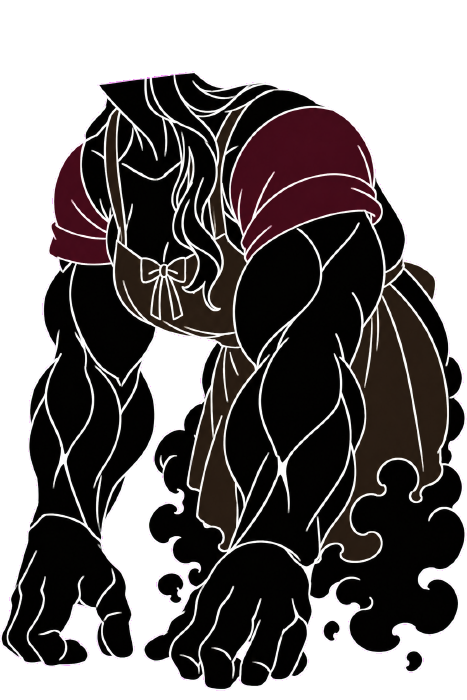
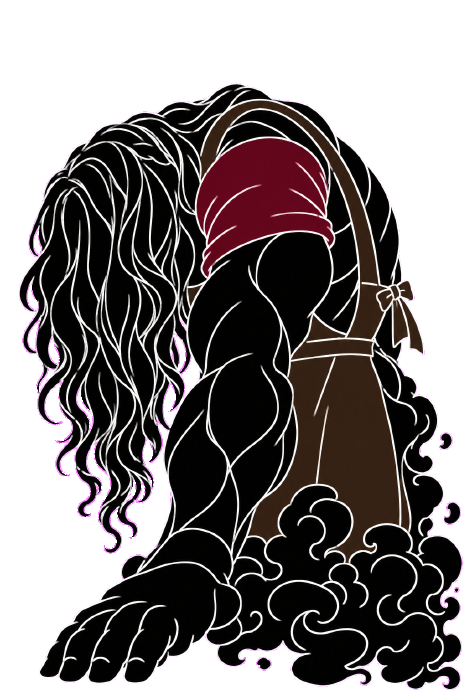
feat(castle): 청소년 battle polish — higher placement without overlay artifacts, defend next to fight and preselected, defend pose from selection, centered vacuum with rising debris and difficulty ramp, healing 1UP mushrooms, gajaeman fades in to harass with taunts, head-down collapse, rise lines

diff --git a/src/battle/support/teen-boss.js b/src/battle/support/teen-boss.js
@@ -19,7 +19,7 @@ export function createTeenBossSupport(battle) {
   // 가재맨: 어깨 위(perch) → 쓰러지면 천천히 내려와 쓰러진 몸 뒤에서 맴돈다(hover) → 일어나면 다시 어깨로
   let gj = { mode: 'hidden', t: 0, from: [...V.shoulder] };
   // 쓰러짐(collapse)·일어남(rise) 연출 시간
-  let fall = null, vacTurns = 0, motes = [], crits = [], puffs = [];
+  let fall = null, downs = 0, vacTurns = 0, motes = [], crits = [], puffs = [];
   const live = () => !enemy.dead && enemy.hp > 0 && !(enemy.dying > 0);
   // 필드에서 이어진 연기(같은 장면이면 그대로 이어 받는다)
   const smoke = battle.game.castleSummit?.smoke || new SummitSmoke();
@@ -37,7 +37,7 @@ export function createTeenBossSupport(battle) {
     get phase() { return phase; },
     get gauge() { return gauge; },
     get smoke() { return smoke; },
-    get snapshot() { return { phase, gauge: Math.round(gauge), downLeft, defending: defenders.size > 0, defenders: [...defenders], turn, fall: fall?.kind || null, gaugeAlpha: +gaugeA.toFixed(2), gajaeman: gj.mode }; },
+    get snapshot() { return { phase, gauge: Math.round(gauge), downLeft, downs, defending: defenders.size > 0, defenders: [...defenders], turn, fall: fall?.kind || null, gaugeAlpha: +gaugeA.toFixed(2), gajaeman: gj.mode }; },
     async load(loadImage) {
       const ids = battle.members.map(m => m.id);
       const imgs = await Promise.all(ids.map(id => loadImage(C.images.defend(id)).catch(() => null)));
@@ -49,15 +49,18 @@ export function createTeenBossSupport(battle) {
       for (let i = 0; i < 2; i++) { const src = `assets/props/summit336_chunk_${i}.png`; if (!props[src]) props[src] = await loadImage(src).catch(() => null); }
       const debris = await Promise.all(TEEN_DEBRIS.map(src => loadImage(src).catch(() => null)));
       globalThis.__teenImages = Object.fromEntries(TEEN_DEBRIS.map((src, i) => [src, debris[i]]));
-      await battle.game.sound.loadSfxFiles?.(['gajaeman_knee', 'gajaeman_kick', 'knight_cut', 'spearappear', 'heavyswing', 'furnace_blast', 'baron_slam', 'impact', 'power', 'laser_charge', 'weaponpull', 'thud', 'rumble', 'teen_vacuum', 'baron_roar', C.downHit.sfx, 'criticalswing']);
+      await battle.game.sound.loadSfxFiles?.(['gajaeman_knee', 'gajaeman_kick', 'knight_cut', 'spearappear', 'heavyswing', 'furnace_blast', 'baron_slam', 'impact', 'power', 'laser_charge', 'weaponpull', 'thud', 'rumble', 'teen_vacuum', 'baron_roar', C.downHit.sfx, 'criticalswing', 'heal', 'mario_jump']);
     },
-    reset() { phase = 'guard'; gauge = 0; turn = 0; downLeft = 0; gjIdx = 0; defenders.clear(); gj = { mode: 'hidden', t: 0, from: [...V.shoulder] }; fall = null; clearTeenTimers(); enemy.patternPose = null; },
+    reset() { downs = 0; phase = 'guard'; gauge = 0; turn = 0; downLeft = 0; gjIdx = 0; defenders.clear(); gj = { mode: 'hidden', t: 0, from: [...V.shoulder] }; fall = null; clearTeenTimers(); enemy.patternPose = null; },
     buttons() {
+      // 공격하기 바로 옆에 방어하기(사용자), 공격하기가 잠겨 있으면 커서는 방어하기에서 시작(defaultMenuIdx)
       return [
         { label: C.labels.fight, kind: 'fight', enabled: phase === 'down' },
-        { label: C.labels.item, kind: 'item', enabled: true },
         { label: C.labels.defend, kind: 'support', id: 'defend', enabled: true },
+        { label: C.labels.item, kind: 'item', enabled: true },
       ];
+    },
+    defaultMenuIdx() { return phase === 'down' ? 0 : 1;
     },
     get hint() { return ''; },
     onVacuum(on, seconds) { vac = on ? { t: 0, d: seconds } : null; },
@@ -70,7 +73,7 @@ export function createTeenBossSupport(battle) {
     // 상자는 끝길 일행 오른쪽(겹치지 않게). 청소기는 손바닥 구멍(205,136) 오른쪽 아래로 넓게(사용자 “더 넓혀”)
     // 청소기는 손바닥 구멍(view.vacuum.palm)이 상자 왼쪽 위 대각선, 게이지 패널(x 440)과 겹치지 않게
     // 피하는 상자는 너무 오른쪽이지 않게(사용자) — 일행(x≤145) 바로 오른쪽
-    get boardCenter() { return this.vacuumTurn() ? [300, 236] : [300, 214]; },
+    get boardCenter() { return this.vacuumTurn() ? [300, 194] : [300, 214]; },
     boardSizeFor() { return this.vacuumTurn() ? [180, 130] : [220, 140]; },
     action(id) {
       if (id !== 'defend') return null;
@@ -86,7 +89,7 @@ export function createTeenBossSupport(battle) {
     speechFor() { return phase === 'down' ? [C.gajaemanLines[C.gajaemanPatterns[gjIdx % C.gajaemanPatterns.length]]] : ['...']; },
     speechVoiceFor() { return phase === 'down' ? 'gajaeman_shadow' : null; },
     /** 말풍선 꼬리: 쓰러진 동안엔 떠 있는 가재맨 옆, 평소엔 청소년 머리 왼쪽 */
-    bubbleAnchor() { if (phase !== 'down') return [236, 60]; const [x, y] = gjPos(); return [x - 30, y - 70]; },
+    bubbleAnchor() { if (phase !== 'down' && !this.gajaemanShown()) return [236, 60]; const [x, y] = gjPos(); return [x - 30, y - 70 * V.gajaemanScale]; },
     /** 방어하기: 이번 적 턴 피해 −3 */
     adjustPartyDamage(member) {
       const [lo, hi] = C.enemyHit, dmg = lo + Math.floor(battle.rnd() * (hi - lo + 1));
@@ -104,11 +107,16 @@ export function createTeenBossSupport(battle) {
       nextType = turn % C.slamEvery === 0 ? 'teen_slam' : 'teen_vacuum';
       // 세 번째 청소부터 가재맨이 중간중간 검·무릎으로 방해(사용자 2026-09-25)
       if (nextType === 'teen_vacuum') vacTurns++;
-      return [{ type: nextType, damage: 15, harass: nextType === 'teen_vacuum' && vacTurns >= 3 }];
+      return [{ type: nextType, damage: 15, harass: nextType === 'teen_vacuum' && vacTurns >= 3, level: Math.max(0, vacTurns - 1) }];
     },
     onProjectile(p) {
       // 방해하러 잠깐 튀어나온다 → 1.3초 뒤 다시 들어간다
-      if (p?.type === 'gj_pop' && phase === 'guard') flyTo('pop', 0.35);
+      if (p?.type === 'gj_pop' && phase === 'guard') flyTo('pop', 0.6);
+      // 1UP 버섯을 먹었다: 쓰러지지 않은 일행 전원 회복
+      if (p?.type === 'teen_heal') {
+        for (const m of battle.members) if (!m.down && m.hp > 0) { const before = m.hp; m.hp = Math.min(m.maxHp, m.hp + C.mushroom.heal); m.popup = { t: 0, text: `+${m.hp - before}`, heal: true }; }
+        battle.sfx('heal'); battle.sfx('mario_jump');
+      }
       if (p?.type === 'teen_dodge' && phase === 'guard') gauge = Math.min(C.gauge.max, gauge + C.gauge.perDodge);
       if (p?.type === 'teen_rock' && live()) { battle.hitEnemy(enemy, null, C.rockDamage, { source: 'teen_rock' }); battle.game.shake = { time: 0.4, amp: 5 }; }
     },
@@ -125,7 +133,8 @@ export function createTeenBossSupport(battle) {
     /** 쓰러진 청소년 앞(낮아진 몸)까지만 달려간다 */
     attackSpot(target) { return target === enemy && phase === 'down' ? C.downSpot : null; },
     memberImage(m) {
-      if (!defenders.has(m.id) || !['bullets', 'board-open', 'board-close', 'enemy-prep', 'prep'].includes(battle.state)) return null;
+      // 방어를 고른 순간부터 적 턴이 끝날 때까지(다른 멤버가 아이템을 쓰는 동안에도) 방어 자세
+      if (!defenders.has(m.id) || m.down || battle.state === 'win') return null;
       return defendImages[m.id] || null;
     },
     poseFor(target) {
@@ -138,7 +147,7 @@ export function createTeenBossSupport(battle) {
     update(dt) {
       if (vac) { vac.t += dt; if (vac.t > vac.d) vac = null; }
       time += dt; gj.t += dt;
-      if (gj.mode === 'pop' && gj.t > 1.3) flyTo('back', 0.4);
+      if (gj.mode === 'pop' && gj.t > 2.2) flyTo('back', 0.6);
       for (const c of crits) c.t += dt;
       crits = crits.filter(c => c.t < C.downHit.fx);
       // 가재맨 둘레로 보라·검은 오오라 입자가 피어오른다
@@ -159,7 +168,7 @@ export function createTeenBossSupport(battle) {
       if (!live()) return null;
       if (phase === 'guard' && gauge >= C.gauge.max) {
         // 과부하: 몇 초 동안 앞으로 기울며 무너져 끝길 쪽으로 엎어진다(애니처럼) → 정적 → 억빠맨
-        phase = 'down'; downLeft = C.downTurns; fall = { kind: 'collapse', t: 0, landed: false };
+        phase = 'down'; downs++; downLeft = C.downTurns; fall = { kind: 'collapse', t: 0, landed: false };
         battle.sfx('baron_roar'); battle.sfx('rumble'); battle.game.shake = { time: CF.tilt, amp: 3 };
         let talk = null, hold = CF.hold;
         return {
@@ -175,7 +184,14 @@ export function createTeenBossSupport(battle) {
       }
       if (phase === 'down') {
         downLeft--;
-        if (downLeft <= 0) { phase = 'guard'; gauge = 0; fall = { kind: 'rise', t: 0 }; flyTo('back'); battle.sfx('rumble'); }
+        if (downLeft <= 0) {
+          const rise = () => { phase = 'guard'; gauge = 0; fall = { kind: 'rise', t: 0 }; flyTo('back'); battle.sfx('rumble'); };
+          // 일어서기 전에 떠 있는 가재맨이 대사를 친다(몇 번째 쓰러짐인지에 따라) → 끝나면 일어서고 가재맨은 뒤로
+          const lines = C.riseLines[downs - 1];
+          if (!lines) { rise(); return null; }
+          const talk = createTalk(battle, lines.map(text => ({ speaker: '가재맨', voice: 'gajaeman_shadow', text: `* ${text}` })));
+          return { update: (dt, input) => { const done = talk.update(dt, input); if (done) rise(); return done; }, draw: ctx => battle.drawTextBox(ctx) };
+        }
       }
       return null;
     },
@@ -221,6 +237,9 @@ export function createTeenBossSupport(battle) {
     drawGajaeman(ctx) {
       const [x, y] = gjPos(), s = V.gajaemanScale, bob = Math.round(Math.sin(time * 2.4) * 3);
       ctx.save();
+      // 어깨 라인에서 서서히 나타나고 들어갈 때 서서히 사라진다(툭 튀어나오지 않게)
+      const kk = Math.min(1, gj.t / (gj.d || GF.descend));
+      ctx.globalAlpha *= gj.mode === 'back' ? 1 - kk : gj.mode === 'pop' || gj.mode === 'hover' ? Math.min(1, kk * 1.6) : 1;
       const glow = ctx.createRadialGradient(x, y - 30 * s, 0, x, y - 30 * s, 40 * s);
       glow.addColorStop(0, 'rgba(90,30,150,0.45)'); glow.addColorStop(1, 'rgba(20,6,40,0)');
       ctx.fillStyle = glow; ctx.fillRect(x - 40 * s, y - 70 * s, 80 * s, 80 * s);

diff --git a/src/battle/teen-patterns.js b/src/battle/teen-patterns.js
@@ -19,7 +19,8 @@ const drawRock = (ctx, b) => {
 const ROCKS = Array.from({ length: 6 }, (_, i) => `assets/props/teen342_rock_${i}.png`);
 const JUNK = [0, 2, 4, 5].map(i => `assets/props/teenboss339_debris_${i}.png`);
 const TROPHY = 'assets/props/teenboss339_debris_1.png';
-const DEBRIS = [...ROCKS, ...JUNK, TROPHY];
+const MUSHROOM = TEEN_BATTLE.mushroom.image;
+const DEBRIS = [...ROCKS, ...JUNK, TROPHY, MUSHROOM];
 /** 가재맨 공격 그림은 흰색 대신 보라로 물들인다(사용자 “흰색색감좀 쓰지마”). 캔버스가 없으면(단위 테스트) 원본 */
 const PURPLE = new WeakMap();
 const purpleSprite = img => {
@@ -47,7 +48,7 @@ const drawVortex = (ctx, b) => {
   const VC = TEEN_BATTLE.view.vacuum, ready = VC.approach + VC.open, t = b.age, box = b.box, [ax, ay] = VC.palm;
   // 여는 동안 서서히, 빨아들이기 시작하면 완전히
   const k = Math.min(1, Math.max(0, (t - VC.approach) / VC.open)), on = t >= ready ? 1 : 0.35 * k;
-  const fx = box.x + box.w + 10, fy = box.y + box.h + 10, len = Math.hypot(fx - ax, fy - ay), ang = Math.atan2(fy - ay, fx - ax);
+  const fx = box.x + box.w * 0.55, fy = box.y + box.h + 10, len = Math.hypot(fx - ax, fy - ay), ang = Math.atan2(fy - ay, fx - ax);
   if (on > 0) {
     ctx.save();
     ctx.beginPath(); ctx.rect(box.x, box.y, box.w, box.h); ctx.clip();
@@ -127,7 +128,11 @@ export const TEEN_PATTERNS = {
     // 손을 가져다 대고 벌리는 준비 시간(approach → open), 두 배 길이·느린 잔해, 세 번째 청소부터 가재맨 방해
     const VC = TEEN_BATTLE.view.vacuum, ready = VC.approach + VC.open, duration = o.duration ?? 16.8 + ready - 1.8;
     // 손을 오른쪽 아래(reach)에서 구멍 자리로 가져다 댄다
-    const to = [VC.palm[0] - VC.palmInSprite[0], VC.palm[1] - VC.palmInSprite[1]], from = { x: to[0] + VC.reach[0], y: to[1] + VC.reach[1] };
+    // 선 자세 자리에서 오른쪽 위로 팔을 뻗어 구멍을 상자 위에 가져다 댄다. 청소가 거듭될수록 조금씩 어려워진다(level)
+    const to = [VC.palm[0] - VC.palmInSprite[0], VC.palm[1] - VC.palmInSprite[1]], from = TEEN_BATTLE.view.giant, lv = Math.min(4, o.level ?? 0);
+    // 버섯: 패턴당 1개, 절반 확률로 1개 더(천천히 날아온다)
+    const shrooms = [0.34];
+    let shroomsPlanned = false;
     let next = ready + 0.2, n = 0, started = false, opened = false, sucking = false, trophy = false, nextHarass = ready + 2.2, h = 0;
     return { duration, update(t, dt, api) {
       const box = api.box, [px, py] = VC.palm;
@@ -142,22 +147,24 @@ export const TEEN_PATTERNS = {
       if (t < ready) { if (t > VC.approach && !opened) { opened = true; api.sfx?.('power', { volume: 0.6 }); api.shake?.(VC.open, 2); } return; }
       if (!sucking) { sucking = true; api.sfx?.('teen_vacuum', { volume: 0.9 }); api.shake?.(0.5, 4); }
       // 구멍 쪽(왼쪽 위)으로 끌려간다, 점점 세게
-      const pull = 16 + 40 * Math.min(1, (t - ready) / (duration * 0.6)), dx = px - api.soul.x, dy = py - api.soul.y, d = Math.max(1, Math.hypot(dx, dy));
+      const pull = (16 + 40 * Math.min(1, (t - ready) / (duration * 0.6))) * (1 + 0.12 * lv), dx = px - api.soul.x, dy = py - api.soul.y, d = Math.max(1, Math.hypot(dx, dy));
       api.soul.x = clamp(api.soul.x + dx / d * pull * dt, box.x + api.soul.r + 4, box.x + box.w - api.soul.r - 4);
       api.soul.y = clamp(api.soul.y + dy / d * pull * dt, box.y + api.soul.r + 4, box.y + box.h - api.soul.r - 4);
-      const every = Math.max(0.24, 0.4 - (t - ready) * 0.012);
+      const every = Math.max(0.18, (0.4 - (t - ready) * 0.012) * (1 - 0.07 * lv));
       while (t >= next && t < duration - 1.2) {
         next += every; n++;
         // 오른쪽 벽·아래 벽 밖에서 생겨 대각선으로 구멍에 빨려 든다
-        const fromRight = api.rnd() < 0.5, warn = 0.5, speed = 80 + api.rnd() * 45;
-        const x = fromRight ? box.x + box.w + 24 : box.x + 20 + api.rnd() * (box.w - 30), y = fromRight ? box.y + 10 + api.rnd() * (box.h - 20) : box.y + box.h + 24;
-        const wx = fromRight ? box.x + box.w - 7 : x, wy = fromRight ? y : box.y + box.h - 7;
+        // 아래 벽·양옆 아래쪽에서 생겨 위의 구멍으로 빨려 올라간다
+        const side = api.rnd(), warn = 0.5, speed = (80 + api.rnd() * 45) * (1 + 0.1 * lv);
+        const fromSide = side < 0.5, sideDir = side < 0.25 ? -1 : 1, fromRight = fromSide && sideDir > 0;
+        const x = fromSide ? (sideDir > 0 ? box.x + box.w + 24 : box.x - 24) : box.x + 20 + api.rnd() * (box.w - 40), y = fromSide ? box.y + box.h * 0.45 + api.rnd() * (box.h * 0.5) : box.y + box.h + 24;
+        const wx = fromSide ? (sideDir > 0 ? box.x + box.w - 7 : box.x + 7) : x, wy = fromSide ? y : box.y + box.h - 7;
         let src;
         if (!trophy && n > 8 && api.rnd() < 0.06) { src = TROPHY; trophy = true; } else src = api.rnd() < 0.14 ? JUNK[Math.floor(api.rnd() * JUNK.length)] : ROCKS[Math.floor(api.rnd() * ROCKS.length)];
         api.emit({ x: wx, y: wy, r: 0, harmless: true, life: warn, drawShape: (ctx, bb) => {
           if (Math.floor(bb.age * 12) % 2) return;
           ctx.fillStyle = '#b070ff'; ctx.beginPath();
-          if (fromRight) { ctx.moveTo(wx + 4, wy - 6); ctx.lineTo(wx - 4, wy); ctx.lineTo(wx + 4, wy + 6); } else { ctx.moveTo(wx - 6, wy + 4); ctx.lineTo(wx, wy - 4); ctx.lineTo(wx + 6, wy + 4); }
+          if (fromRight) { ctx.moveTo(wx + 4, wy - 6); ctx.lineTo(wx - 4, wy); ctx.lineTo(wx + 4, wy + 6); } else if (fromSide) { ctx.moveTo(wx - 4, wy - 6); ctx.lineTo(wx + 4, wy); ctx.lineTo(wx - 4, wy + 6); } else { ctx.moveTo(wx - 6, wy + 4); ctx.lineTo(wx, wy - 4); ctx.lineTo(wx + 6, wy + 4); }
           ctx.closePath(); ctx.fill();
         } });
         api.emit({ x, y, r: 10, vx: 0, vy: 0, spin: (api.rnd() - 0.5) * 7, kind: 'debris', src, seed: n, drawShape: drawDebris,
@@ -169,14 +176,29 @@ export const TEEN_PATTERNS = {
             bb.shrink = Math.min(1, dist / 40);
             if (!bb.touched && bb.hits(api.soul)) bb.touched = true;
             // 구멍은 상자 대각선 위 밖 — 상자 위·왼쪽 벽을 빠져나가 구멍 쪽으로 빨려 가면 피한 것(상자 밖 여유선에서 지워지기 전에 센다)
-            const gone = dist < 14 || bb.y < api.box.y - 4 || bb.x < api.box.x - 4;
+            const gone = dist < 14 || bb.y < api.box.y - 4;
             if (!bb.counted && gone) { bb.counted = true; if (dist < 14) bb.life = bb.age; if (!bb.touched) api.trackProjectile?.({ type: 'teen_dodge' }); }
+          } });
+      }
+      if (!shroomsPlanned) { shroomsPlanned = true; if (api.rnd() < TEEN_BATTLE.mushroom.second) shrooms.push(0.62 + api.rnd() * 0.12); }
+      while (shrooms.length && t >= ready + shrooms[0] * (duration - ready)) {
+        shrooms.shift();
+        // 오른쪽 벽 밖에서 천천히 들어와 구멍 쪽으로 느리게 빨려 간다 — 하트가 닿으면 먹는다
+        const y = box.y + 20 + api.rnd() * (box.h - 40), M = TEEN_BATTLE.mushroom;
+        api.emit({ x: box.x + box.w + 20, y, r: 9, harmless: true, src: MUSHROOM, rot: 0, drawShape: drawDebris,
+          steer(bb, dd) {
+            const ex = px - bb.x, ey = py - bb.y, dist = Math.max(1, Math.hypot(ex, ey));
+            bb.vx += (ex / dist * M.speed - bb.vx) * Math.min(1, dd * 2); bb.vy += (ey / dist * M.speed * 0.6 + Math.sin(bb.age * 3) * 10 - bb.vy) * Math.min(1, dd * 2);
+            bb.rot = Math.sin(bb.age * 4) * 0.2;
+            // 해롭지 않은 탄은 hits() 가 늘 false — 거리로 직접 먹는다
+            if (!bb.eaten && Math.hypot(bb.x - api.soul.x, bb.y - api.soul.y) < bb.r + api.soul.r) { bb.eaten = true; bb.life = bb.age; api.trackProjectile?.({ type: 'teen_heal' }); }
           } });
       }
       if (o.harass && t >= nextHarass && t < duration - 2) {
         nextHarass = t + 2.4 + api.rnd() * 0.8; h++;
         const x = clamp(api.soul.x + (api.rnd() - 0.5) * 30, box.x + 24, box.x + box.w - 24);
         api.trackProjectile?.({ type: 'gj_pop' });
+        api.say?.(TEEN_BATTLE.view.popLines[(h - 1) % TEEN_BATTLE.view.popLines.length], 1.6);
         if (h % 2) harassSword(api, x); else harassKnee(api, x);
       }
     } };

diff --git a/src/data/teen-battle.js b/src/data/teen-battle.js
@@ -9,6 +9,8 @@ export const TEEN_BATTLE = Object.freeze({
   slamEvery: 3,
   downTurns: 3,
   rockDamage: 50,
+  // 청소 중 가끔(패턴당 1~2개) 천천히 날아오는 초록 1UP 버섯: 하트로 먹으면 일행 전원 +30(사용자 2026-09-25)
+  mushroom: { image: 'assets/props/teen346_mushroom.png', heal: 30, second: 0.5, speed: 38 },
   // 쓰러진 동안 일반 공격 한 대 = 50(사용자 2026-09-25, 80 → 50), 매번 치명타 이펙트 + 릴리즈샷 소리
   downHit: { damage: 50, sfx: 'deltarune_release_shoot', fx: 0.55 },
   /**
@@ -21,18 +23,22 @@ export const TEEN_BATTLE = Object.freeze({
     front: 'assets/props/summit342_front.png',
     // BUILD346: 사용자가 고른 D안(결전지 거인 디자인, 주인공 쪽을 내려다보는 3/4), 700px — 목 위는 화면 밖(얼굴 없음), 살짝 더 왼쪽.
     // 자세 4종이 같은 캔버스. 주먹·쓰러짐은 몸이 내려가 목 단면이 보이지 않게 그만큼 위로(assets/source/teen345/process.py 의 neckTop)
-    giant: { image: 'assets/props/summit342_teen.png', x: 121, y: -6 },
-    down: { image: 'assets/props/teen342_down.png', x: 121, y: -77 },
+    // 상체를 더 올려 목이 덜 보이게, 기둥과는 기둥이 앞에 자연스럽게 겹치는 정도(사용자 교정)
+    giant: { image: 'assets/props/summit342_teen.png', x: 150, y: -60 },
+    down: { image: 'assets/props/teen342_down.png', x: 150, y: -60 },
     // 청소: 손바닥 구멍이 상자 왼쪽 위 대각선(palm)에 오도록 자세를 옮긴다. palmInSprite = 청소 자세 그림 속 구멍 자리
     // approach 동안 손을 가져다 대고, open 동안 구멍이 열리며 충전 → 그 뒤에야 빨아들인다(사용자 “공격준비 시간, 웅장하게”)
-    vacuum: { palm: [197, 101], palmInSprite: [76, 107], reach: [30, 40], approach: 1.0, open: 1.3 },
+    // 손은 기둥과 겹치지 않게 오른쪽 위에서 뻗어, 구멍이 가운데 상자 위쪽에 온다(사용자 “기둥도”, “가운데에 피하는 화면”)
+    vacuum: { palm: [304, 40], palmInSprite: [76, 107], approach: 1.2, open: 1.3 },
     // 일행 발 위치: 끝길 위에 대각선으로 붙여 선다
     party: { hyungsub: [125, 176], gyeongsub: [93, 204], ppaman: [61, 232] },
     // 가재맨: 평소엔 아예 안 보인다 → 쓰러질 때만 청소년 오른쪽 아래 어깨 라인(shoulder)에서 나와 천천히 왼쪽으로 날아와 위에 떠 있다
     // → 일어서면 다시 어깨 라인 뒤로 사라진다(사용자 “안 보여야”, “오른쪽 아래 어깨쪽 라인에서 나오게”, “너무 크다”)
     shoulder: [430, 210], hover: [300, 118], gajaemanScale: 1.0,
     // 청소 중 방해: 어깨 라인에서 잠깐 튀어나와 치고 다시 들어간다(독립적으로 나와서 때리는 느낌)
-    pop: [452, 128],
+    pop: [396, 104],
+    // 방해하러 튀어나올 때 대사(사용자 예시 “쉽게 피하게 둘까보냐 ㅋㅋ”, 두 가지를 번갈아)
+    popLines: ['쉽게 피하게 둘까보냐 ㅋㅋ', '어딜 도망가려고 ㅋㅋ'],
   },
   // 쓰러지는 연출: 앞으로 기울며 가라앉고(tilt) → 엎드린 그림으로 바뀌며 쿵(land) → 잠깐 정적(hold) 뒤 대사
   collapse: { tilt: 1.5, land: 0.5, hold: 1.2, rise: 1.0 },
@@ -45,6 +51,12 @@ export const TEEN_BATTLE = Object.freeze({
     defend: id => `assets/battle/${id}-defend.png`,
   },
   gajaemanPatterns: ['gj_swords', 'gj_knee', 'gj_mouse'],
+  // 쓰러졌던 청소년이 일어설 때 가재맨 대사(몇 번째 쓰러짐인지에 따라, 사용자 원문 그대로)
+  riseLines: [
+    ['의미없는 발버둥을', '아무리 발악해봐야 너희는 곧 죽는다', '이런이런 그릇이 너무 강력해서 섭타룬의 힘을 저항하고 있는건가'],
+    ['도대체 왜이렇게 끈질긴거야', '당장 죽어 갈기갈기 찢겨지라고'],
+    ['그래 인정해주지 더이상 봐주는건 없다'],
+  ],
   // 가재맨이 패턴 들어가기 전에 치는 대사(사용자 원문 그대로)
   gajaemanLines: { gj_mouse: '니애미따라가라', gj_swords: '너검없냐?', gj_knee: '넣을게~' },
   // 전투가 열리면 먼저 “마지막이다.”, C 를 누르면 억빠맨

diff --git a/src/battle/battle.js b/src/battle/battle.js
@@ -272,7 +272,7 @@ export class Battle {
   }
   beginMenu() {
     this.clearPatternPresentation();
-    this.state = 'menu'; this.t = 0; this.plans = []; this.memberIdx = 0; this.menuIdx = 0;
+    this.state = 'menu'; this.t = 0; this.plans = []; this.memberIdx = 0; this.menuIdx = this.support?.defaultMenuIdx?.() ?? 0;
     while (this.memberIdx < this.members.length && this.members[this.memberIdx].down) this.memberIdx++;
     const live = this.living(); const e = live[Math.floor(this.rnd() * Math.max(1, live.length))]; const idle = this.support?.idleFor?.(e) || e?.def.lines?.idle || [];
     this.setText(idle.length ? idle[Math.floor(this.rnd() * idle.length)] : '');   // 잡담 문구는 행동 선택 화면([공격하기][아이템])과 같은 패널에 공존 (사용자 2026-09-10)
@@ -311,7 +311,7 @@ export class Battle {
       return;
     }
     if (input.just('cancel') && this.plans.length) {           // 이전 멤버로 되돌아가기 (델타룬처럼)
-      this.sfx('cancel'); this.support?.onPlanCancel?.(this.plans.pop()); this.memberIdx--; while (this.memberIdx > 0 && this.members[this.memberIdx].down) this.memberIdx--; this.menuIdx = 0;
+      this.sfx('cancel'); this.support?.onPlanCancel?.(this.plans.pop()); this.memberIdx--; while (this.memberIdx > 0 && this.members[this.memberIdx].down) this.memberIdx--; this.menuIdx = this.support?.defaultMenuIdx?.() ?? 0;
     }
   }
   updateTarget(input) {
@@ -340,7 +340,7 @@ export class Battle {
   }
   nextMember() {
     this.memberIdx++; while (this.memberIdx < this.members.length && this.members[this.memberIdx].down) this.memberIdx++;
-    this.menuIdx = 0; this.state = 'menu'; this.t = 0;
+    this.menuIdx = this.support?.defaultMenuIdx?.() ?? 0; this.state = 'menu'; this.t = 0;
     if (this.memberIdx >= this.members.length) { this.beginAct(); return; }
     // cfg.memberIntro[id]: 그 동료의 첫 차례가 오면 대사를 먼저(청소부 “뭐 뭐라고? 공격을 하라고?”, BUILD227) → 끝나면 그 동료의 메뉴
     const member = this.members[this.memberIdx], intro = this.cfg.memberIntro?.[member.id];

diff --git a/src/data/enemies.js b/src/data/enemies.js
@@ -183,14 +183,14 @@ export const ENEMIES = {
   // BUILD339 청소년(사용자 2026-09-25): 선화 상체 보스. 공격은 지원 모듈(support/teen-boss.js)이 잠그고 푼다. 시트 3×2 = 대기·숨·주먹·내려찍기·청소기·쓰러짐
   teen_giant: {
     name: '청소년', hp: 999, damage: 15, money: 0, boss: true, support: 'teen_boss', voice: 'narrator', bgmDelay: 0.9,
-    // BUILD342: 필드 대치와 같은 그림·같은 화면 자리(teen-battle.js view.giant = 121,-6 → ENEMY_X 396/ENEMY_YS 176 기준 dx·dy). 숨쉬기 없음
+    // BUILD342: 필드 대치와 같은 그림·같은 화면 자리(teen-battle.js view.giant = 150,-60 → ENEMY_X 396/ENEMY_YS 176 기준 dx·dy). 숨쉬기 없음
     sheet: { src: 'assets/props/summit342_teen.png', cols: 1, rows: 1, count: 1, fps: 1, px: 1, pivot: [0, 0] },
     actions: {
       vacuum: { src: 'assets/props/teen342_vacuum.png', cols: 1, rows: 1, count: 1, fps: 1, px: 1, pivot: [0, 0] },
       slam: { src: 'assets/props/teen342_slam.png', cols: 1, rows: 1, count: 1, fps: 1, px: 1, pivot: [0, 109] },
-      down: { src: 'assets/props/teen342_down.png', cols: 1, rows: 1, count: 1, fps: 1, px: 1, pivot: [0, 71] },
+      down: { src: 'assets/props/teen342_down.png', cols: 1, rows: 1, count: 1, fps: 1, px: 1, pivot: [0, 0] },
     },
-    pivot: [0, 0], scale: 1, dx: -275, dy: -182, board: [300, 150], idle: { swayX: 0, swayY: 0 },
+    pivot: [0, 0], scale: 1, dx: -246, dy: -236, board: [300, 150], idle: { swayX: 0, swayY: 0 },
     projectiles: { sword: 'assets/props/cathedral323_sword.png', knee: 'assets/props/teenboss339_knee.png', arm: 'assets/props/arena332_arm.png' },
     patterns: [{ type: 'teen_vacuum' }],
     lines: { appear: '* 청소년이 앞을 막아섰다.', idle: ['* 마지막이다.', '* 끝이다.'], speak: ['...'], die: '* 청소년이 쓰러졌다.' },

diff --git a/src/scenes/summit-smoke.js b/src/scenes/summit-smoke.js
@@ -9,7 +9,7 @@ export const SMOKE = Object.freeze({
   // back: 하늘 뒷배경에서만(끝길 다리 위쪽, 일행 뒤) — 사용자 “연기가 주인공들을 너무 가린다, 뒷배경에 아예 뒤에”
   back: { count: 22, x: [1540, 2304], y: [40, 300], r: [36, 80], vx: [-6, 6], vy: [-4, -1], life: [7, 12] },
   // front: 부서진 끝 오른쪽, 청소년 아래만
-  front: { count: 26, x: [1770, 2304], y: [440, 600], r: [34, 70], vx: [-8, 8], vy: [-8, -3], life: [3.5, 6] },
+  front: { count: 24, x: [1810, 2304], y: [470, 620], r: [34, 70], vx: [-8, 8], vy: [-8, -3], life: [3.5, 6] },
 });
 /**
  * 바람에 아주 살짝 흩날리는 그림: 가로 줄마다 1~2px 씩 느린 물결로 어긋나게 그린다(위쪽 어깨·머리카락이 더, 아래는 거의 그대로).

diff --git a/assets/source/teen345/process.py b/assets/source/teen345/process.py
@@ -15,7 +15,8 @@ load = lambda n, p: (lambda s: (s.loader.exec_module(m := importlib.util.module_
 ap = load('ap', HERE.parent / 'arena332' / 'process.py')
 tp = load('tp', HERE.parent / 'teen342' / 'process.py')
 SCALE = 700 / 1536
-POSES = {'teen': 'face4', 'vacuum': 'dvac', 'slam': 'dslam', 'down': 'ddown'}
+# 쓰러짐은 머리를 숙여 박는 ddown2(사용자 “머리를 엎드려서 박아도 돼”) — 머리가 캔버스 안이라 목 맞춤 없이 서기와 같은 자리
+POSES = {'teen': 'face4', 'vacuum': 'dvac', 'slam': 'dslam', 'down': 'ddown2'}
 
 
 def main() -> None:
@@ -29,6 +30,8 @@ def main() -> None:
         neck = int(np.argmax(band.any(axis=1)))
         ys, xs = np.nonzero(im[..., 3])
         print(f'{name}: {w}x{im.shape[0]} neckTop={neck} left={xs.min()}')
+    # 청소 중 가끔 날아오는 초록 1UP 버섯(먹으면 전원 회복)
+    Image.fromarray(ap.shrink(ap.key_out(np.array(Image.open(HERE / 'mushroom-raw.png').convert('RGBA'))), 20)).save('assets/props/teen346_mushroom.png')
 
 
 if __name__ == '__main__':

diff --git a/assets/source/teen342/front.py b/assets/source/teen342/front.py
@@ -9,7 +9,8 @@ im = np.asarray(Image.open('assets/props/summit336_chunk_1.png').convert('RGB'))
 H, W, _ = im.shape
 lum = im.mean(2)
 ys, xs = np.mgrid[0:H, 0:W]
-walk = (xs < 612) & (ys > 318) & (ys < 640)
+# 다리: 실제 돌 픽셀만(부서진 끝의 들쭉날쭉한 틈·하늘은 빼야 청소년 위에 어두운 네모가 안 생긴다)
+walk = (xs < 612) & (ys > 318) & (ys < 640) & (lum > 22)
 # 부서진 끝 바로 앞 마지막 난간 기둥(불꽃·끊어진 사슬 포함)은 영역째
 post = (xs >= 600) & (xs <= 668) & (ys >= 200) & (ys <= 330) & (lum > 18)
 rail = (xs < 600) & (ys > 225) & (ys <= 318) & (lum > 38)

diff --git a/docs/STATE.md b/docs/STATE.md
@@ -2,6 +2,8 @@
 
 마지막 갱신: 2026-09-24
 
+**BUILD347 — 청소년전 다듬기(사용자 2026-09-25)**: 청소년 (150,−60)으로 올리고 살짝 오른쪽, 끝길 전경은 실제 돌 픽셀만(어두운 네모 자국 제거). 버튼 순서 공격하기·방어하기·아이템, 공격하기가 잠겨 있으면 커서는 방어하기에서 시작(`defaultMenuIdx`). 방어를 고른 멤버는 고른 순간부터 적 턴 끝까지 방어 자세. 청소기: 손을 오른쪽 위로 뻗어 구멍(304,40)이 가운데 상자 위(기둥과 안 겹침), 잔해는 아래·양옆에서, 청소가 거듭될수록 조금씩 어려움(`level`), 초록 1UP 버섯 패턴당 1~2개(먹으면 전원 +30). 가재맨 방해: 게이지에 안 가리는 자리(396,104)로 서서히 나왔다 들어가며 “쉽게 피하게 둘까보냐 ㅋㅋ”/“어딜 도망가려고 ㅋㅋ”. 쓰러짐은 머리를 숙여 박는 자세(ddown2). 일어설 때 가재맨 대사(첫 번째 3줄, 두 번째 2줄, 세 번째 1줄, 원문).
+
 **BUILD346 — 청소년 D안 적용(사용자 선택 2026-09-25)**: 청소년 = `assets/source/teen345` D안(결전지 거인 디자인, 주인공 쪽=화면 왼쪽을 내려다보는 3/4, 목 위는 화면 밖), 700px·화면 (121,−6), 자세 4종(서기·청소 손바닥·주먹·쓰러짐)을 같은 캔버스로 생성, 주먹·쓰러짐은 목 단면이 안 보이게 위로(`neckTop`). 바람에 아주 살짝 흩날리는 줄 단위 물결(`drawFlutter`, 필드·전투 공통). 필드 그리기에 `castleSummit.drawBehind`(바닥 조각 다음·배우 앞): 하늘 뒷배경 연기 → 청소년 → 끝길 다리·마지막 기둥 전경(`summit342_front.png`) → 일행, 전투도 같은 순서(`drawOverEnemies`). 연기는 하늘 뒤와 부서진 끝 오른쪽 아래에만(일행을 가리지 않음). 청소기 손바닥 구멍(197,101), 오른쪽 아래에서 손을 가져다 댐, 구멍 쪽으로 상자를 빠져나간 잔해를 피한 것으로 셈, 한 개당 0.7%. 쓰러진 동안 한 대 50(80 → 50).
 
 **BUILD345 — 청소년전 흐름 교정(사용자 2026-09-25)**: 대치 브금 Gallery 는 “이미 우리 앞에있어.” 와 함께. 전투 진입: 브금이 꺼지고 1초 뒤 검 뽑는 소리와 함께 전투 모션으로 → 0.9초 뒤 전투 브금(`bgmDelay`), 첫 문구 “* 마지막이다.” 뒤 C 로 억빠맨. 전투 자산·브금을 대치 동안 미리 읽음. 방어하기는 멤버마다 따로(`queue` 지원 행동 — 예전엔 방어를 고르면 앞 멤버의 아이템 선택이 지워져 회복이 안 되던 버그), 방어한 멤버만 −3. 청소년전 적 공격 한 대 20~25 무작위(`enemyHit`). 청소기: 손바닥 구멍이 상자 왼쪽 위 대각선(200,150), 손을 가져다 대는 1초 + 구멍이 열리며 충전 1.3초 뒤에야 빨아들임, 상자는 일행 바로 오른쪽(가운데 300). 가재맨: 평소엔 필드·전투 모두 안 보임, 청소 방해 때 어깨 라인에서 잠깐 튀어나와 치고 들어감, 쓰러지면 어깨 라인에서 나와 위에 떠 있음, 크기 1.0·검보라 연기 오오라. “넣을게~” 소리 약 2배. 청소년 앞모습 후보 6종 `assets/source/teen345`(로컬 비교 페이지 `tools/dev/preview/teen-pick/`) — 사용자 선택 대기.
